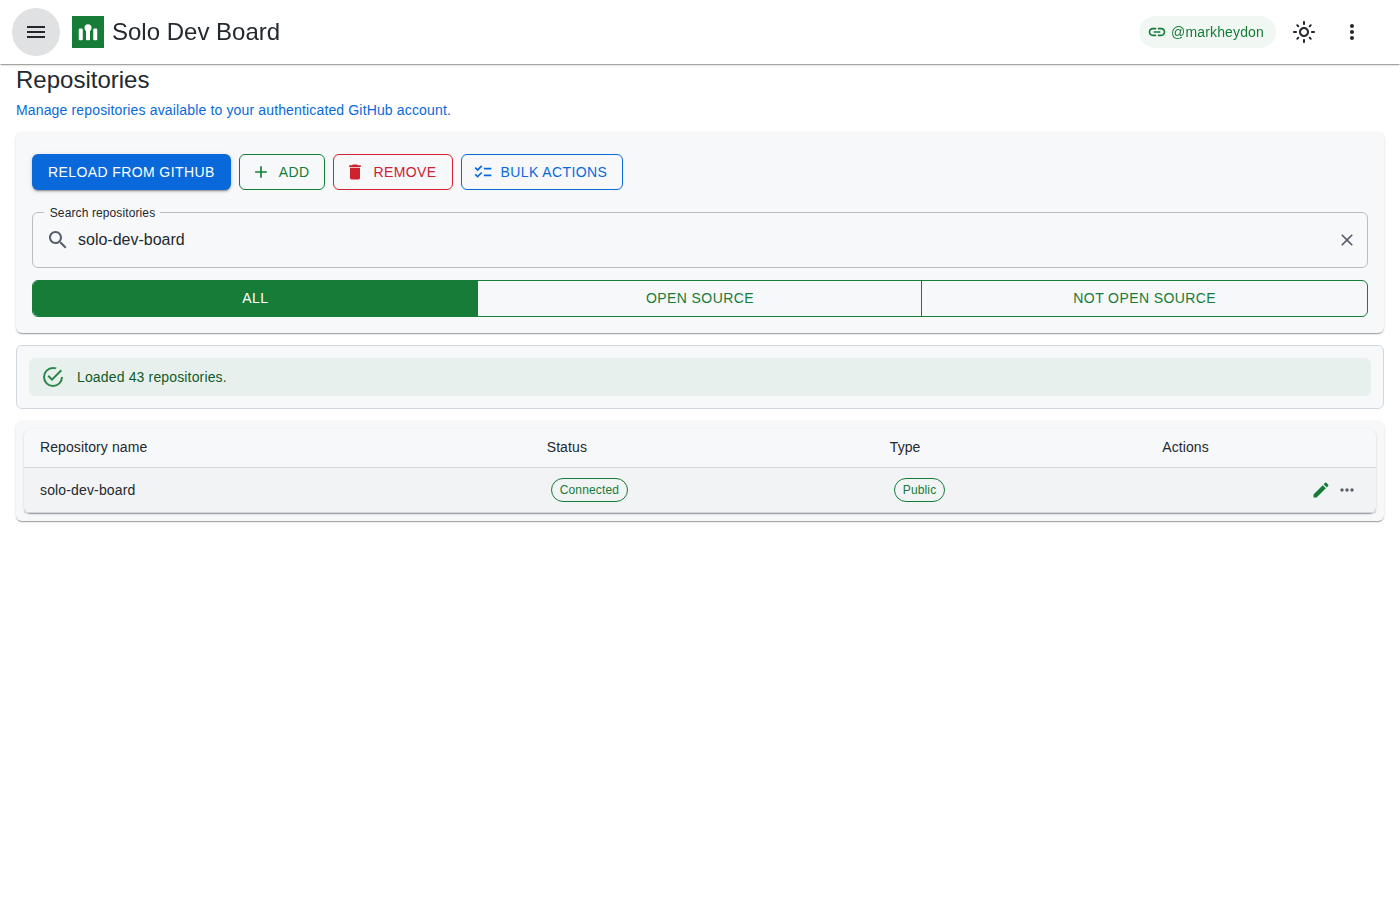
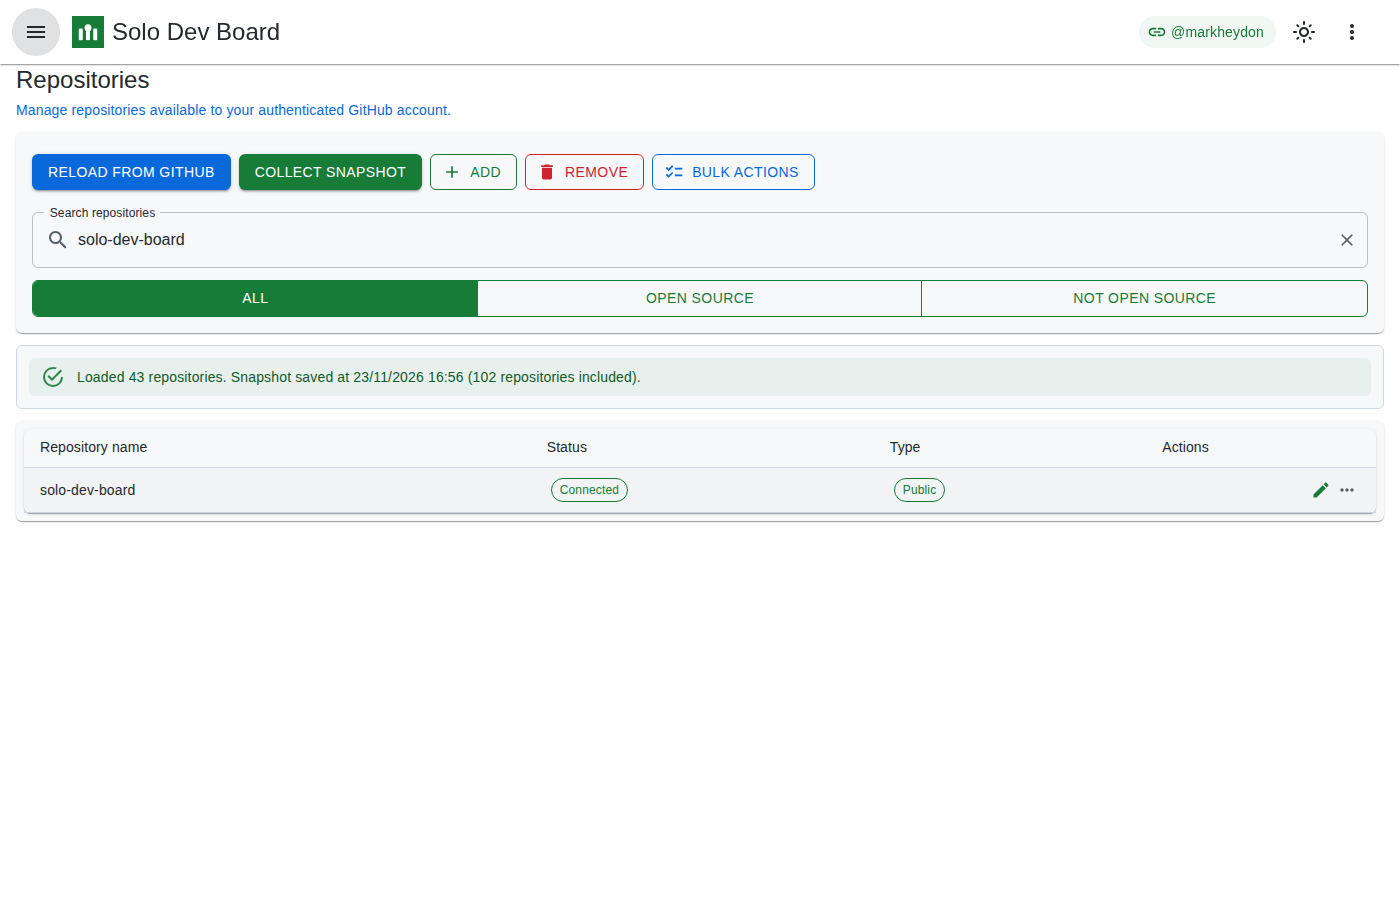
[Documentation] Close out operator snapshot Spec Kit increment (#610) (#620)
* Mark operator repository snapshot spec as delivered.

* Complete operator snapshot polish: T055 screenshot and task checklist.

Recapture Repositories user-guide image after Collect snapshot ships; mark T055 done in the feature task list.

---------

Changed region(s): [[0.1536, 0.1556, 0.5836, 0.2178], [0.1536, 0.4044, 0.4607, 0.4356]]

diff --git a/specs/001-operator-snapshot-scanner/tasks.md b/specs/001-operator-snapshot-scanner/tasks.md
@@ -206,7 +206,7 @@ Single project layout: `src/`, `tests/` at repository root (see [plan.md](plan.m
 **Purpose**: User guide, E2E alignment, chrome, and merge gates.
 
 - [X] T054 [P] Update shipped behaviour in `website/content/docs/repositories.md` and `tests/SoloDevBoard.E2E.Tests/USER_DOCS_ALIGNMENT.md`; **same change** as T055 (constitution Principle III)
-- [ ] T055 Recapture `website` screenshot `repositories/overview.png` after command strip and status region ship; **same change** as T054 (do not merge Repositories UI without both)
+- [X] T055 Recapture `website` screenshot `repositories/overview.png` after command strip and status region ship; **same change** as T054 (do not merge Repositories UI without both)
 - [X] T056 Update Playwright repositories command-strip and 390px overflow tests in `tests/SoloDevBoard.E2E.Tests/` if new control changes assertions (no live GitHub collection journey)
 - [X] T057 Ensure **Collect snapshot** stays visible on narrow viewports (not overflow-only) in `Repositories.razor` per [contracts/repositories-page.md](contracts/repositories-page.md)
 - [X] T058 Run `dotnet format SoloDevBoard.slnx --verify-no-changes`, `dotnet build SoloDevBoard.slnx -c Release -warnaserror`, and `dotnet test SoloDevBoard.UnitTests.slnf -c Release --no-build` per [plan.md](plan.md)

diff --git a/specs/001-operator-snapshot-scanner/spec.md b/specs/001-operator-snapshot-scanner/spec.md
@@ -4,7 +4,7 @@
 
 **Created**: 2026-11-23
 
-**Status**: Specified (ready for implementation)
+**Status**: Delivered (2026-11-23)
 
 **Input**: User description: "Specify an enabler that collects one current snapshot for the signed-in solo developer (the operator), covering every repository linked to their personal GitHub account, public and private. The operator starts a collection and reads its status on the existing Repositories page. Later features read that snapshot. This specification does not design Community Standards or FUNDING pages."
 
